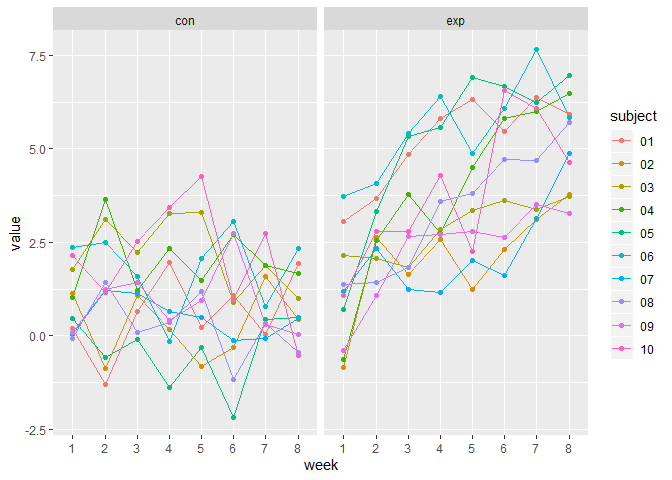
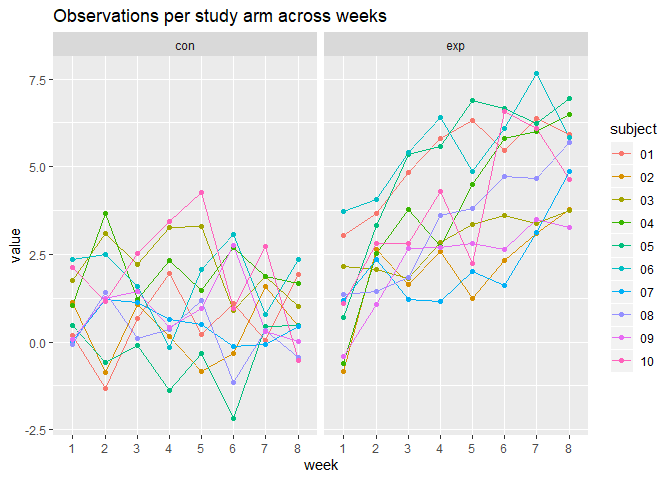
Problem 3 completed.

diff --git a/p8105_hw5_fw2334.md b/p8105_hw5_fw2334.md
@@ -36,34 +36,8 @@ iris_num_vec = function(x) {
   }
 }
 
-iris_num_vec(iris_with_missing[[1]])
-```
 
-    ##   [1] 5.100000 4.900000 4.700000 4.600000 5.000000 5.400000 5.819231
-    ##   [8] 5.000000 4.400000 4.900000 5.400000 4.800000 5.819231 4.300000
-    ##  [15] 5.819231 5.700000 5.400000 5.100000 5.700000 5.100000 5.400000
-    ##  [22] 5.100000 4.600000 5.819231 4.800000 5.000000 5.000000 5.200000
-    ##  [29] 5.819231 4.700000 4.800000 5.400000 5.200000 5.500000 4.900000
-    ##  [36] 5.000000 5.500000 4.900000 4.400000 5.100000 5.000000 4.500000
-    ##  [43] 4.400000 5.000000 5.100000 4.800000 5.100000 4.600000 5.300000
-    ##  [50] 5.000000 7.000000 6.400000 6.900000 5.500000 6.500000 5.700000
-    ##  [57] 6.300000 4.900000 6.600000 5.200000 5.000000 5.900000 6.000000
-    ##  [64] 6.100000 5.600000 6.700000 5.600000 5.800000 6.200000 5.600000
-    ##  [71] 5.900000 5.819231 6.300000 5.819231 6.400000 6.600000 6.800000
-    ##  [78] 6.700000 6.000000 5.700000 5.500000 5.819231 5.800000 6.000000
-    ##  [85] 5.400000 5.819231 6.700000 5.819231 5.600000 5.500000 5.500000
-    ##  [92] 5.819231 5.800000 5.000000 5.819231 5.700000 5.700000 6.200000
-    ##  [99] 5.100000 5.700000 6.300000 5.800000 7.100000 6.300000 6.500000
-    ## [106] 7.600000 4.900000 7.300000 6.700000 5.819231 6.500000 5.819231
-    ## [113] 6.800000 5.700000 5.800000 6.400000 6.500000 7.700000 7.700000
-    ## [120] 6.000000 5.819231 5.600000 7.700000 6.300000 6.700000 7.200000
-    ## [127] 6.200000 6.100000 6.400000 7.200000 7.400000 7.900000 6.400000
-    ## [134] 5.819231 6.100000 5.819231 5.819231 6.400000 6.000000 6.900000
-    ## [141] 6.700000 6.900000 5.819231 6.800000 6.700000 6.700000 6.300000
-    ## [148] 6.500000 5.819231 5.900000
-
-``` r
-df = map_df(iris_with_missing, iris_num_vec)
+iris_df = map_df(iris_with_missing, iris_num_vec)
 ```
 
 # Problem 2
@@ -71,46 +45,125 @@ df = map_df(iris_with_missing, iris_num_vec)
 ``` r
 patient_files = list.files(path = "./files", full.names = TRUE)
 
-#experiment_df = data_frame(filename = patient_files) %>% 
-#  mutate(file_contents = map(filename, ~ read_csv(file.path(data_path, .))))
-
 experiment_df = patient_files %>% 
   map_df(read.csv) %>% 
-  mutate(
-    patient_id = tools::file_path_sans_ext(basename(patient_files)),
-    unique_id = row_number()) %>% 
+  mutate(patient_id = tools::file_path_sans_ext(basename(patient_files))) %>% 
   separate(patient_id, into = c("arm", "id"), sep = "_") %>%
-  select(-id) %>% 
+  mutate(subject = as.factor(id)) %>% 
   pivot_longer(week_1:week_8,
     names_to = "week",
     names_prefix = "week_",
     values_to = "value")
 
 exp_plot = experiment_df %>% 
-  ggplot(aes(x = week, y = value, color = arm, group = unique_id)) +
+  ggplot(aes(x = week, y = value, color = subject, group = subject)) +
   geom_line() + 
-  geom_point()
+  geom_point() +
+  facet_wrap(~arm) +
+  labs(
+    title = "Observations per study arm across weeks"
+  )
 
 exp_plot
 ```
 
 ![](p8105_hw5_fw2334_files/figure-gfm/unnamed-chunk-2-1.png)<!-- -->
 
+For subjects in the experimental arm, values increased over the 8 week
+period. This was not the case in the control arm, where observation
+values remained more or less the same over the study period.
+
 # Problem 3
 
+#### Simulation with beta1 = 0
+
 ``` r
-sim_regression = function(n = 30, beta0 = 2, beta1 = 0) {
+set.seed(10)
+
+sim_regression = function(n = 30, beta0 = 2, beta1) {
   
   sim_data = tibble(
     x = rnorm(n, mean = 0, sd = 1),
-    y = beta0 + beta1 * x + rnorm(n, mean = 0, sd = 50^(0.5))
+    y = beta0 + beta1 * x + rnorm(n, mean = 0, sd = sqrt(50))
   )
   
-  ls_fit = lm(y ~ x, data = sim_data)
+  ls_fit = lm(y ~ x, data = sim_data) %>% broom::tidy()
   
   tibble(
-    beta0_hat = coef(ls_fit)[1],
-    beta1_hat = coef(ls_fit)[2]
+    beta1_hat = ls_fit[[2,2]],
+    p_value = ls_fit[[2,5]]
   )
 }
+
+output = vector("list", 10000)
+
+for (i in 1:10000) {
+  output[[i]] = sim_regression(beta1 = 0)
+}
+
+sim_results0 = bind_rows(output)
 ```
+
+#### Simulation with list for beta1 ranging from 1 to 6
+
+``` r
+b1_list = list("b1_1" = 1, 
+               "b1_2" = 2, 
+               "b1_3" = 3,
+               "b1_4" = 4,
+               "b1_5" = 5,
+               "b1_6" = 6)
+
+sim_results = 
+  tibble(b1 = c(1, 2, 3, 4, 5, 6)) %>% 
+  mutate(
+    output_lists = map(.x = b1_list, ~rerun(10000, sim_regression(beta1 = .x))),
+    estimate_dfs = map(output_lists, bind_rows)) %>% 
+  select(-output_lists) %>% 
+  unnest(estimate_dfs)
+```
+
+``` r
+rejected = sim_results %>% 
+  mutate(null_rejected = ifelse(p_value <= 0.05, "yes", "no")) 
+
+rejected %>% 
+  group_by(b1) %>% 
+  summarize(proportion_rejected = sum(null_rejected == "yes")/sum(null_rejected == "yes" | null_rejected == "no")) %>% 
+  ggplot(aes(x = b1, y = proportion_rejected)) + 
+  geom_point() +
+  labs(
+    x = "True value of β1",
+    y = "Proportion of times null was rejected",
+    title = "Power of test by true value of β1")
+```
+
+![](p8105_hw5_fw2334_files/figure-gfm/unnamed-chunk-5-1.png)<!-- --> As
+effect size increases, power increases.
+
+``` r
+b1avg_all = rejected %>% 
+  group_by(b1) %>% 
+  summarize(avg_b1 = mean(beta1_hat))
+
+b1avg_nullrejected = rejected %>% 
+  filter(null_rejected == "yes") %>% 
+  group_by(b1) %>% 
+  summarize(avg_b1 = mean(beta1_hat))
+
+ggplot() +
+  geom_point(data = b1avg_all, aes(x = b1, y = avg_b1, color = "All observations")) +
+  geom_point(data = b1avg_nullrejected, aes(x = b1, y = avg_b1, color = "Null rejected")) +
+  labs(
+    x = "True value of β1",
+    y = "Average value of estimated b1",
+    title = "Mean estimated b1 by true β1"
+  )
+```
+
+![](p8105_hw5_fw2334_files/figure-gfm/unnamed-chunk-6-1.png)<!-- -->
+
+The sample average of b1 is higher than the true value of β1. A higher
+estimated effect size leads to rejecting the null, therefore if we
+eliminate values for which the null is not rejected our average effect
+size is going to be larger.
